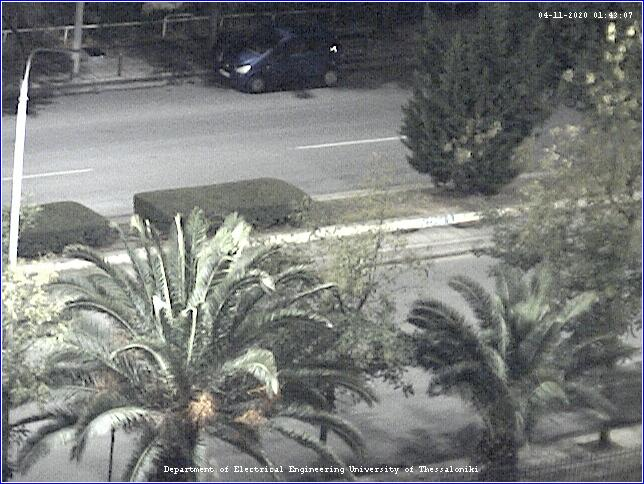
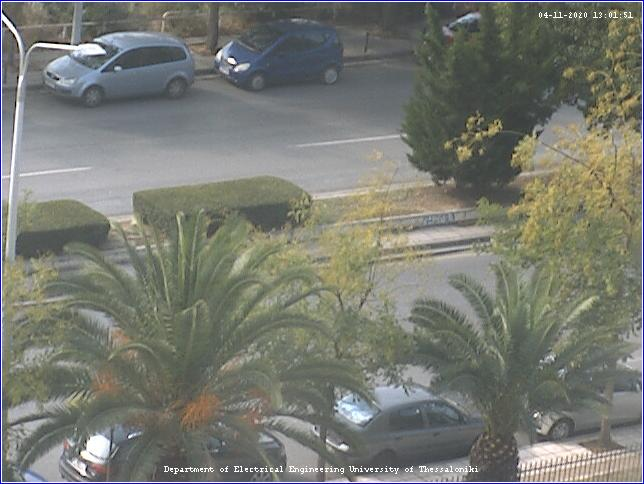
CLI arguements to control the camera and open the file

diff --git a/src/Client.java b/src/Client.java
@@ -2,6 +2,7 @@ import java.io.*;
 import java.net.*;
 import java.nio.charset.StandardCharsets;
 import java.lang.System;
+import java.awt.Desktop;
 
 class Client {
 		public static void main (String[] args) throws Exception {
@@ -10,15 +11,35 @@ class Client {
 				if (args.length == 2) {
 					System.out.println("This is the first arguement " + args[0] + " " + "and this is the second arguement " + args[1]); 
 				}
+				String[] directionOptions = {"L", "D", "U", "R"};
+				int flag = 0;
+				for (String i : directionOptions) {
+					if (i.equals(args[0])) {
+						flag = 1;
+						System.out.println("Valid direction: " + args[0]);
+						break;
+					}	
+				}
+				if (flag == 0) {
+					System.out.println("Try again, wrong direction. Available options are: L, R, U, D");
+					return;
+				}
+				if (Integer.parseInt(args[1])>=1 && Integer.parseInt(args[1])<=100) {
+					System.out.println("How many times? " + Integer.parseInt(args[1]) + ". Valid option");
+				}
+				else {
+					System.out.println("Invalid input. Range should be 1-100");
+					return;
+				}
 
 				// INIT 
 				// TODO create a script that is scraping from ithaki website the request code and the ports.
 				byte[] clientIP = { (byte)192, (byte)168,  (byte)1, (byte)20};
 				InetAddress clientAddress = InetAddress.getByAddress(clientIP);
-				DatagramSocket sendSocket = new DatagramSocket(48001, clientAddress); 
-				String requestCode = "E2768";
+				DatagramSocket sendSocket = new DatagramSocket(48012, clientAddress); 
+				String requestCode = "E3625";
 				byte[] txbuffer = requestCode.getBytes();
-				int serverPort = 38001;
+				int serverPort = 38012;
 				byte[] hostIP = { (byte)155, (byte)207,  (byte)18, (byte)208};
 				InetAddress hostAddress = InetAddress.getByAddress(hostIP);
 				DatagramPacket sendPacket = new DatagramPacket(txbuffer, txbuffer.length, hostAddress, serverPort);
@@ -51,7 +72,7 @@ class Client {
 
 
 				System.out.println("\nTemperature measurements...");
-				requestCode = "E2768T00";
+				requestCode = "E3625T00";
 				txbuffer = requestCode.getBytes();
 				sendPacket.setData(txbuffer, 0, txbuffer.length);
 				for(int i = 0; i<=4 ; i++) {
@@ -75,16 +96,21 @@ class Client {
 				//int numImage = 0;
 				//for (String dir : directionOptions) {
 				//	numImage++;
-				for(int numImage = 0; numImage<5; numImage++) {
+				for(int numImage = 0; numImage<Integer.parseInt(args[1]); numImage++) {
 
 					System.out.println("\nImage application...");
-					//requestCode = "M4306CAM=PTZUDP=1024DIR=" + dir;
-					requestCode = "M4306UDP=1024";
+					requestCode = "M2834CAM=PTZUDP=1024DIR=" + args[0];
+					//requestCode = "M2834CCAM=PTZUDP=1024DIR=R";
+					System.out.println("The request code is " + requestCode);
 					txbuffer = requestCode.getBytes();
 					sendPacket.setData(txbuffer, 0, txbuffer.length);
 					sendSocket.send(sendPacket);	
 					System.out.println("I am sleeping... Camera needs time to readjust");
-					Thread.sleep(5000); // sleep in order for the camera to readjust
+					Thread.sleep(5000); // sleep in order for the camera to readjust	
+
+					if (numImage != (Integer.parseInt(args[1])-1)){
+							continue; // readjust the camera as many time is requested via the command line arguement. Print only the result, the last request
+					}
 
 					ByteArrayOutputStream dataImage = new ByteArrayOutputStream();
 					int countPackets = 0;
@@ -133,7 +159,7 @@ class Client {
 					System.out.println("\n\nTotal number of packages: " + (countPackets-1));
 					System.out.println("How many Kbytes is the image? " + dataImageBytes.length/(float)1000);
 					
-					File imageFile = new File("../media/image/4_11_2020/ithaki_image_FIX_No" + numImage + ".jpg");
+					File imageFile = new File("../media/image/sandbox/ithaki_image_PTZ_No" + numImage + ".jpg");
 					FileOutputStream fos = null;
 					try {
 							fos = new FileOutputStream(imageFile);
@@ -151,8 +177,12 @@ class Client {
 					System.out.println("Total amount of time to receive a frame: " + (timeAfter - timeBefore)/(float)1000 + " seconds");
 					timeAfter = System.currentTimeMillis(); // get the time when the file is ready
 					System.out.println("Total amount of time to receive and write a frame in a .jpg file: " + (timeAfter - timeBefore)/(float)1000 + " seconds");
-					
+					Desktop desktop = Desktop.getDesktop();
+					if (imageFile.exists()) {
+						desktop.open(imageFile);
+					}
 				}
+				
 
 
 				System.out.println("\nAudio application");
@@ -162,5 +192,6 @@ class Client {
 
 
 				//sendSocket.send(sendPacket);	
+				System.out.println("End of Java application");
 		}
 }
